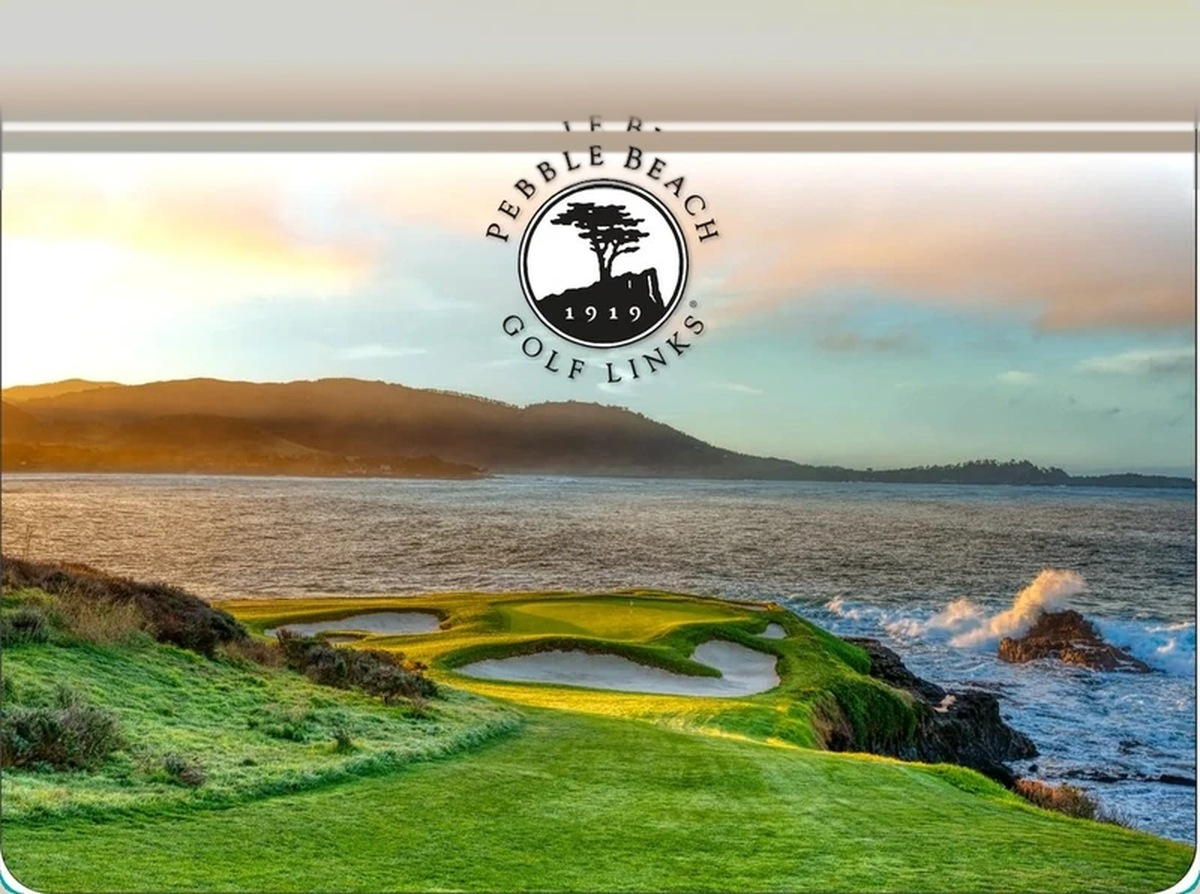
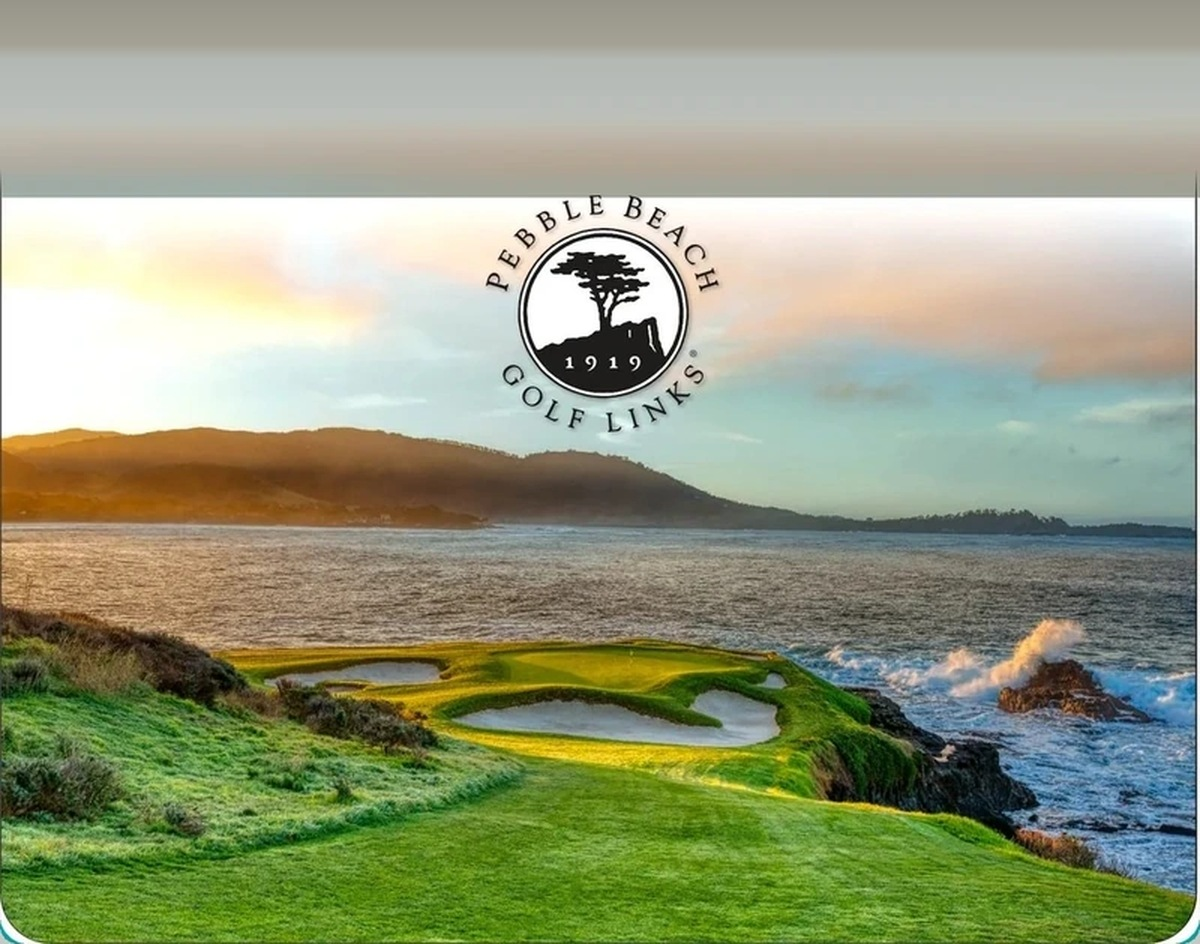
fix: give Pebble hero full PEBBLE BEACH arc margin
Rebuild the cover from the original without painting through letter
rows, drop the white paper band above the arc, and soften the 3D tilt
so the logo stays inside the card face.

diff --git a/src/projects/T100Card.css b/src/projects/T100Card.css
@@ -1,9 +1,9 @@
 /* Closed Pebble card — one cover face; floor shadow only (below, never above) */
 
 .t100-card {
-  --rest-x: 3deg;
-  --rest-y: -6deg;
-  --rest-z: -1deg;
+  --rest-x: 2deg;
+  --rest-y: -5deg;
+  --rest-z: -0.8deg;
   --px: 0;
   --py: 0;
   position: relative;
@@ -56,7 +56,7 @@ html.is-dark .t100-card-floor {
 .t100-card-frame {
   position: relative;
   width: 100%;
-  aspect-ratio: 800 / 596;
+  aspect-ratio: 800 / 629;
   transform-style: preserve-3d;
   transform-origin: 50% 55%;
   transform:
@@ -72,7 +72,7 @@ html.is-dark .t100-card-floor {
   position: absolute;
   inset: 0;
   overflow: hidden;
-  background: #d7cbb2;
+  background: #b4b9b4;
   /* Opaque cover + radius clip — avoids alpha-edge AA that read as a
      translucent pale panel above the card under 3D transforms. */
   border-radius: 1.4% / 2.2%;

diff --git a/src/projects/T100Card.js b/src/projects/T100Card.js
@@ -93,7 +93,7 @@ function T100Card({ compact = false, interactive = true, className = '' }) {
             src={`${CARD}/pebble-cover-800.webp`}
             alt=""
             width={800}
-            height={596}
+            height={629}
             draggable={false}
             decoding="async"
             loading={compact ? 'lazy' : 'eager'}
